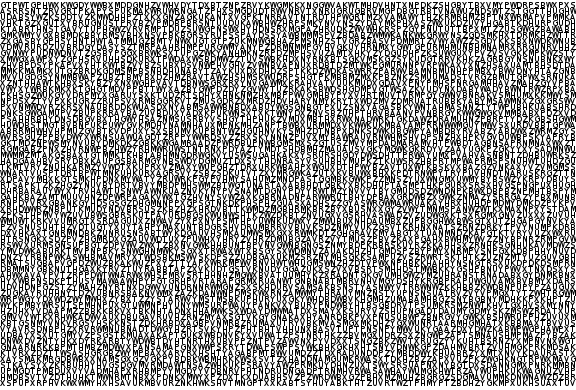
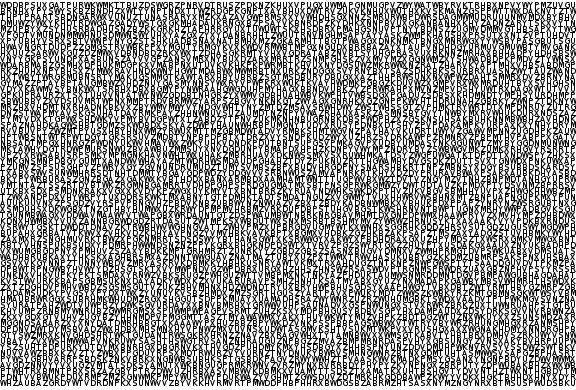
Fist version app runnig

diff --git a/main.py b/main.py
@@ -1,37 +1,100 @@
 from kivy.app import App
-from kivy.uix.image import Image
+from kivy.uix.image import Image as WImage
 from kivy.uix.widget import Widget
 from kivy.uix.boxlayout import BoxLayout
 from kivy.properties import ObjectProperty
 from kivy.uix.floatlayout import FloatLayout
 from kivy.uix.popup import Popup
+from kivy.uix.label import Label
+from kivy.uix.button import Button
 from kivy.properties import ObjectProperty
+from kivy.properties import StringProperty
+from kivy.factory import Factory
+from msgbox import *
+from LVCS.api import *
+from image.processor import *
+from kivy.vector import Vector
 import os
 
 class LoadDialog(FloatLayout):
     load = ObjectProperty(None)
     cancel = ObjectProperty(None)
+    filechooser = ObjectProperty(None)
 
+    def __init__(self, *args, **kwargs):
+	FloatLayout.__init__(self, *args, **kwargs)
+
+	self.filechooser.filters = ['*.png']	
+	self.filechooser.path = os.path.dirname(os.path.abspath(__file__))
 
 class MainWidget(BoxLayout):
 	text_input = ObjectProperty(None)
 	secret_image = ObjectProperty(None)
         algorithm = ObjectProperty(None)
 	parameters = ObjectProperty(None)
+        shades = ObjectProperty(None)
+	result_image = ObjectProperty(None)
+
 	valid_algorithms = ['LVCS-DVCS']
-	valid_parameters = {'(2,2)':(2,2),'(2,3)':(2,2),'(3,3)':(3,3)}
+	valid_parameters = {'(2,2)':(2,2,None),'(2,3,None)':(2,2,None),'(3,3)':(3,3,9)}
 	def validate(self):
 		return self.parameters.text in self.valid_parameters.keys() and \
 		       self.algorithm.text in self.valid_algorithms
 	 
 		
-	def generateShadows(button):
-		print "Shadows generated:"
-		if button.validate():
-			print 'OK'
+	def generateShadows(self):
+		if self.validate():
+		   k = self.valid_parameters[self.parameters.text][0]
+		   n = self.valid_parameters[self.parameters.text][1]
+		   m = self.valid_parameters[self.parameters.text][2]
 
-	def loadImage(button, text):
-		print "Image \"" + text + "\" loaded"
+		   if self.algorithm.text == self.valid_algorithms[0]:
+			image = Image.open(self.secret_image.source)
+			(w,h) = image.size
+
+			shades_info = LVCS_DVCS(image, k=k, n=n, m=m)
+			self.shades.clear_widgets()
+			
+			pos = (0,0)
+			result = None
+			for i in range(0,len(shades_info)):
+				#get shades
+				shade_info = shades_info[i]
+				shade = addtext(shade_info, None, w, rows = h, alpha=True)
+				path = './temp/shade%s.png'%i
+				 
+				#shave images
+				shade.save(path, 'PNG')
+				
+				#set spacing of the container
+				self.shades.spacing = self.size[0]*float(0.1)/len(shades_info)
+				rw = float(0.9) / len(shades_info)
+				wimage = Factory.Image(
+						source=path, 
+						allow_stretch=True,
+						size_hint=(rw,1)
+					)
+		
+
+				wimage.pos = pos
+				self.shades.add_widget(wimage)
+				dx = self.size[0] / len(shades_info)
+				pos = (pos[0] + dx + self.spacing, 0)
+
+				if result is None:
+					result = addtext(shade_info, None, w, rows=h, alpha=False)
+				else:
+					result = overlaping(addtext(shade_info, None, w, rows=h, alpha=False),
+						            result)
+
+			if not result is None:
+				result.save('./temp/result.png', 'PNG')
+				self.result_image.source = './temp/result.png'
+		else:
+		   
+		   msg = MsgBox(text='You should set the algorithm and\n the parameters and load a secret image')
+		   msg.open()
+
 
     	def dismiss_popup(self):
         	self._popup.dismiss()
@@ -43,9 +106,100 @@ class MainWidget(BoxLayout):
 
     	def load(self, path, filename):
 		self.secret_image.source = os.path.join(path, filename[0])
+		self.secret_image.keep_ratio = False
+
         	#with open(os.path.join(path, filename[0])) as stream:
             	#	self.id_loadImageText.text = stream.read()
         	self.dismiss_popup()
+
+class ShadeLayout(FloatLayout):
+	currentImage = None
+
+	def on_touch_move(self, touch):
+		try:
+			if not self.currentImage is None:
+				(dx, dy) = touch.dpos
+				(cx, cy) = self.currentImage.pos
+				newx = cx + dx
+				newy = cy
+		
+				if self.collide_point(newx,newy):
+					self.currentImage.pos = (newx, newy)
+
+				for ch in self.children:
+					if not ch is self.currentImage:
+						(x,y) = ch.pos
+						d = Vector(ch.pos).distance(self.currentImage.pos) 
+						if d < 20:
+							self.currentImage.pos = ch.pos[:]
+							self.currentImage = None
+		except:
+			pass
+			
+	def on_touch_up(self, touch):
+		self.currentImage = None
+
+	def on_touch_down(self, touch):
+		try:
+			for ch in self.children:
+				if ch.collide_point(*touch.pos):
+					self.currentImage = ch
+				
+					for ch in self.children:
+						if not ch is self.currentImage:
+							(x,y) = self.currentImage.pos
+							d = Vector(ch.pos).distance(self.currentImage.pos) 
+							if d < 20:
+								self.currentImage.pos = (x+21,y)
+								self.currentImage = None
+								pass
+			
+					pass
+
+		except:
+			pass
+class Shade(WImage):
+	moving = False
+	
+	def on_touch_move(self,touch):
+		if self.moving:
+			(dx, dy) = touch.dpos
+			(cx, cy) = self.pos
+			newx = cx + dx
+			newy = cy + dy 
+
+			(pw, ph) = self.parent.size
+
+			if newx > 0 and newy > 0 and \
+                   	   newx < pw and newy < ph:
+		  		self.pos = (newx, newy)
+
+		
+			print self.pos
+
+        def on_touch_up(self, touch):
+		self.moving = False
+		
+	def on_touch_down(self, touch):
+		(px, py) = self.process_pos(touch.pos) 
+		(cx, cy) = self.pos
+		(w,h) = self.size
+
+		print (px,py)
+		print self.pos
+		print self.size
+
+		if px > cx and py > cy and \
+		   px < cx + w and py < cy + h:
+			self.moving = True
+			print 'moving'
+		print '-----------'
+
+	def process_pos(self, pos):
+		(x,y) = pos
+		(px,py) = self.parent.pos
+		print 'Parent pos: %s,%s'%(px,py)
+		return (x-px, y-py)
 
 class MainApp(App):
 	def build(self):
@@ -53,3 +207,6 @@ class MainApp(App):
 
 if __name__ == '__main__':
 	MainApp().run()
+
+Factory.register('Shade', cls=Shade)
+Factory.register('ShadeLayout', cls=ShadeLayout)

diff --git a/image/processor.py b/image/processor.py
@@ -4,11 +4,12 @@ from PIL import ImageFont
 from PIL import ImageDraw
 
 
-def addtext(text, image, cols, font_size = 8, rows = None):
+def addtext(text, image, cols, font_size = 8, rows = None, alpha = False):
     red = (255,0,0,255)
     green = (0,255,0,255)
     blue = (0,0,255,255)
-    black = (0,0,0,255)
+    black = '#000000'
+    red = '#FF0000'
 
     if rows is None:
         rows = int(len(text) / cols) + 1
@@ -23,7 +24,7 @@ def addtext(text, image, cols, font_size = 8, rows = None):
         # create image
         image = createimage(rows * len(text[0]),
                             cols * len(text[0][0]),
-                            font_size)
+                            font_size, alpha)
 
     else:
         # check the size
@@ -69,7 +70,7 @@ def addtext(text, image, cols, font_size = 8, rows = None):
 
             else:
                 draw.text((c * font_size, r * font_size),
-                          superpixel, black, font=font)
+                          superpixel, fill=black, font=font)
 
             index = index + 1
 
@@ -83,7 +84,7 @@ def addtext(text, image, cols, font_size = 8, rows = None):
 
 def overlaping(img1, img2, channel=0, thresold=125):
     white = (255,255,255)
-    black = (0,0,0)
+    black = (0,0,0,0)
     data1 = img1.getdata()
     data2 = img2.getdata()
     #data = [filter(lambda x: x in data1, sublist) for sublist in data2]
@@ -101,11 +102,14 @@ def overlaping(img1, img2, channel=0, thresold=125):
     return result
 
 
-def createimage(rows, cols, font_size = 16):
+def createimage(rows, cols, font_size = 16, alpha = False):
     # use a (r, g, b) tuple to represent colors
     #red = (255,0,0)
-    white = (255,255,255)
-
+    white = (255,255,255,255)
+    
     # create a new image surface
     # make the background white (default bg=black)
-    return Image.new("RGB", (cols * font_size, (rows + 1) * font_size), white)
+    if alpha:
+    	return Image.new("RGBA", (cols * font_size, (rows + 1) * font_size), (0, 0, 0, 0))
+    else:
+    	return Image.new("RGB", (cols * font_size, (rows + 1) * font_size), (255,255,255))

diff --git a/LVCS/api.py b/LVCS/api.py
@@ -55,22 +55,25 @@ def LVCS_DVCS(image, channel=0, thresold=125, k=2, n=3, m=6):
     if k == 2 and n == 3:
         b0 = get_B_23()[0]
         b1 = get_B_23()[1]
+	m = 2
 
     if k == 2 and n == 2:
         b0 = get_B_22()[0]
         b1 = get_B_22()[1]
+	m = 2
 
     if k == 3 and n == 3 and m == 6:
         b0 = get_B_33()[0]
         b1 = get_B_33()[1]
 
-    if k == 3 and n == 3 and m == 9:
+    elif k == 3 and n == 3 and m == 9:
         b0 = get_B_33_m9()[0]
         b1 = get_B_33_m9()[1]
 
     elif k == 3 and n > 2:
         b0 = get_B_3n(n)[0]
         b1 = get_B_3n(n)[1]
+	
 
     print_matrix(b0)
     print_matrix(b1)
@@ -93,7 +96,6 @@ def LVCS_DVCS(image, channel=0, thresold=125, k=2, n=3, m=6):
 
         lc = l1 if p[channel] < thresold else l0
 
-        #print_letter_matrix(lc)
         for i in range(0, n):
             r = []
             for j in v:

diff --git a/LVCS/test.py b/LVCS/test.py
@@ -10,7 +10,7 @@ img = Image.open('resources/images/li.png')
 (w,h) = img.size
 
 
-shades = LVCS_DVCS(img, m=9, n=3, k=3)
+shades = LVCS_DVCS(img, n=3, k=3, m=9)
 print len(shades[0])
 #print shades[0]
 print h
